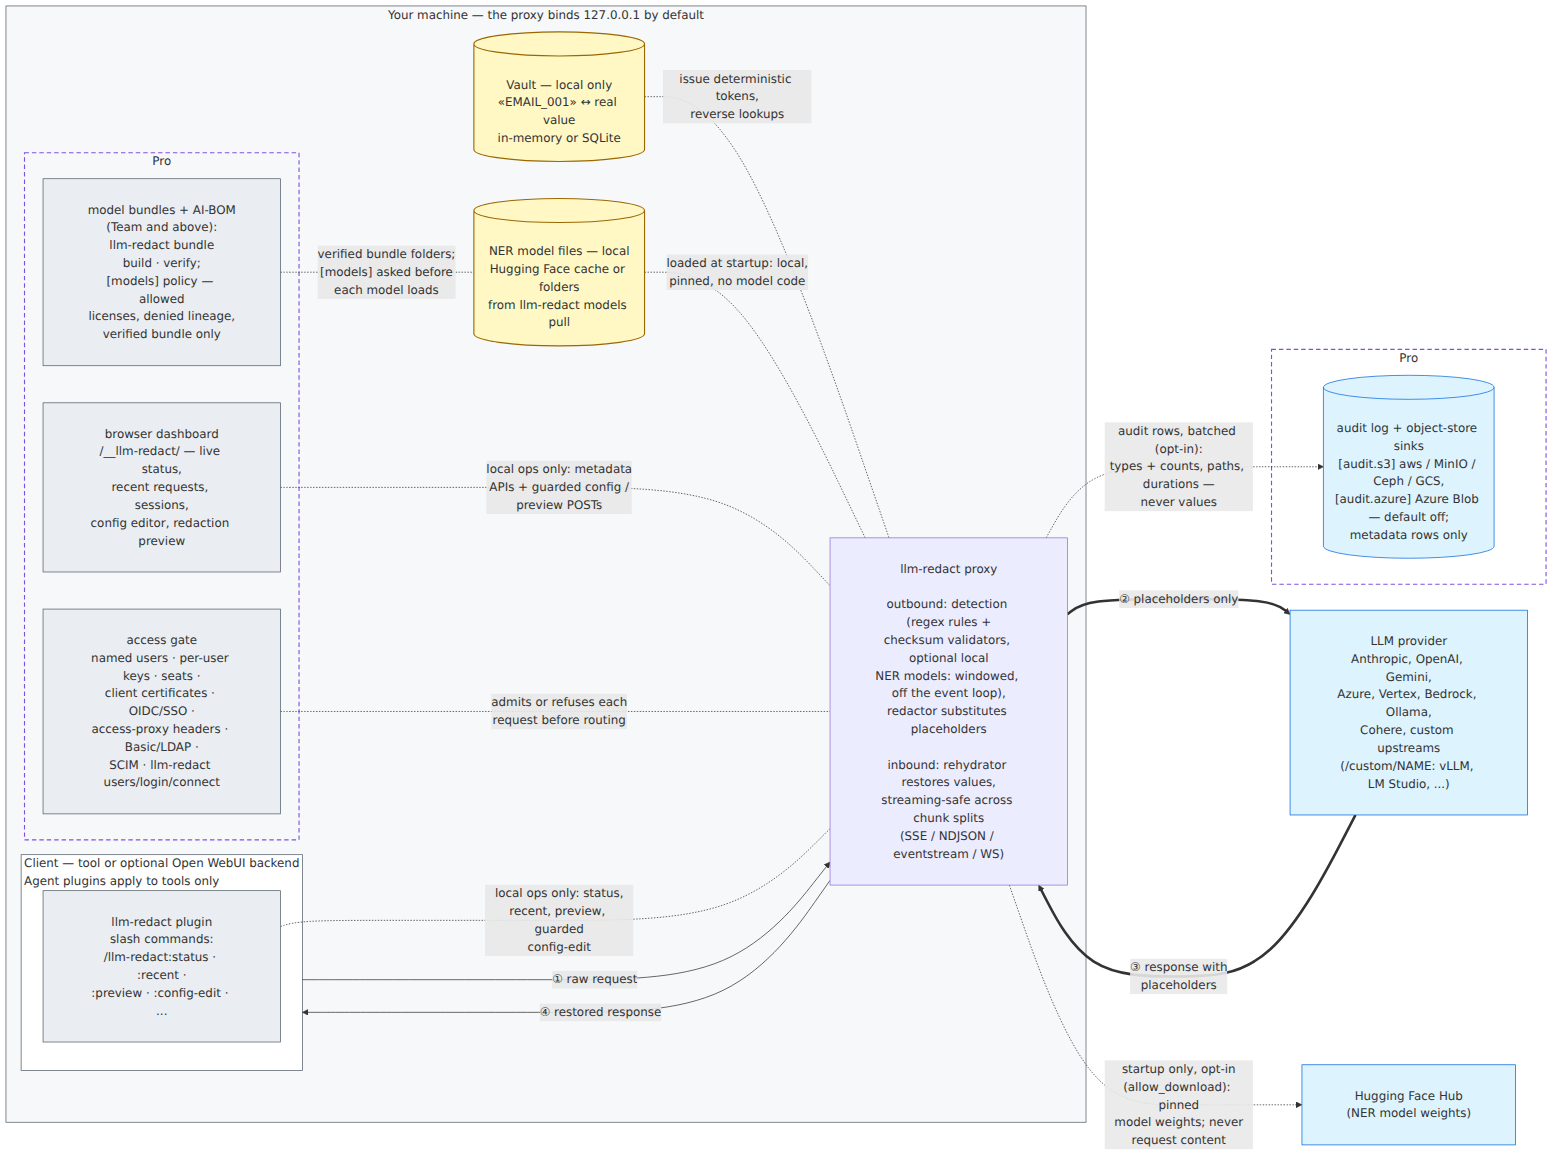
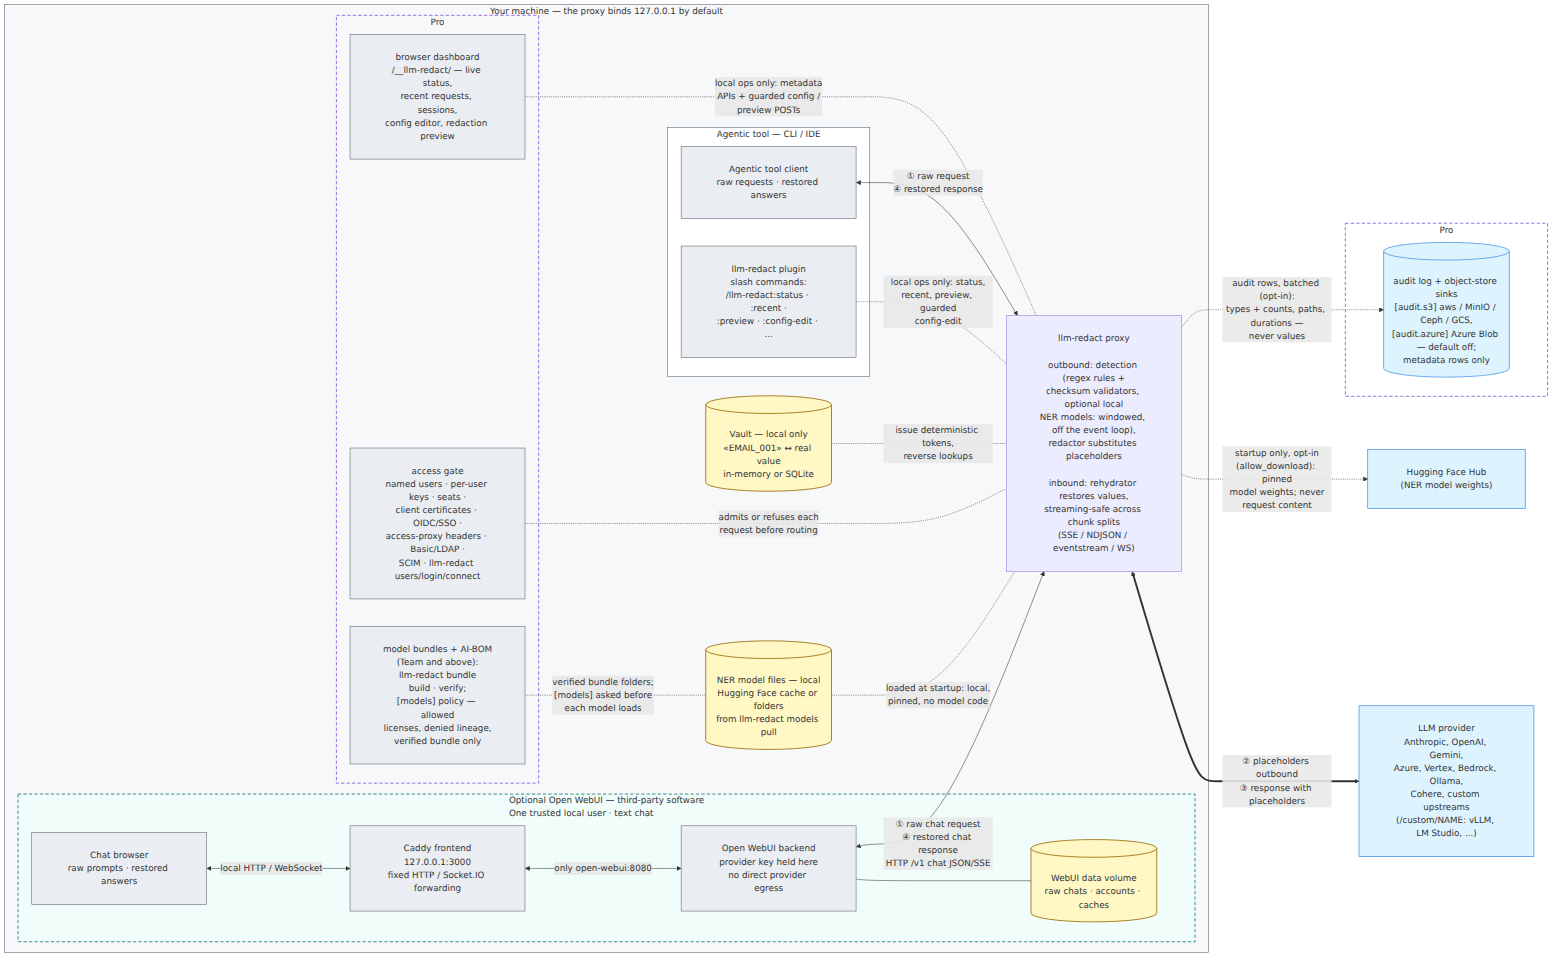
docs: show optional Open WebUI in the main architecture
Draw the browser, Caddy frontend, backend, and raw-history store as a separate optional group. Keep agent plugins and Pro features distinct, regenerate all architecture assets, and preserve both directions in the animation.

diff --git a/scripts/animate_diagrams.py b/scripts/animate_diagrams.py
@@ -10,7 +10,8 @@ version and background as the PNGs), then rewrites it:
 - flowcharts: every DIRECTED edge that does not end at a refusal node
   (Mermaid class ``refuse``) gets an overlay path with a travelling dash —
   the request/response flow — on top of the untouched original edge, so the
-  static appearance is unchanged and the arrowheads stay;
+  static appearance is unchanged and the arrowheads stay. Bidirectional
+  links alternate direction; their GIF captures the full round trip;
 - sequence diagrams: messages, their numbers, activations and notes appear
   in chronological order (top to bottom), each arrow drawing itself, then
   the finished diagram holds before the loop restarts.
@@ -110,6 +111,7 @@ def _edge_target(edge_id: str, nodes: dict[str, set[str]]) -> str | None:
 def animate_flowchart(svg: str) -> tuple[str, float]:
     nodes = _node_classes(svg)
     overlays = 0
+    has_roundtrip = False
 
     def overlay(match: re.Match[str]) -> str:
         tag = match.group(0)
@@ -119,11 +121,16 @@ def animate_flowchart(svg: str) -> tuple[str, float]:
         target = _edge_target(edge_id, nodes)
         if target is not None and "refuse" in nodes.get(target, set()):
             return tag  # refusals do not carry the flow onward
-        nonlocal overlays
+        nonlocal overlays, has_roundtrip
         overlays += 1
         thick = "edge-thickness-thick" in _classes(tag)
+        roundtrip = "marker-start=" in tag
+        has_roundtrip |= roundtrip
         d = _attr(tag, "d") or ""
-        return f'{tag}<path d="{d}" class="anim-flow{" anim-thick" if thick else ""}"/>'
+        return (
+            f'{tag}<path d="{d}" class="anim-flow{" anim-thick" if thick else ""}'
+            f'{" anim-roundtrip" if roundtrip else ""}"/>'
+        )
 
     svg = re.sub(r'<path\b[^>]*class="[^"]*flowchart-link[^"]*"[^>]*/?>', overlay, svg)
     if overlays == 0:
@@ -134,11 +141,12 @@ def animate_flowchart(svg: str) -> tuple[str, float]:
         "pointer-events:none}"
         ".anim-flow.anim-thick{stroke-width:4px;stroke-dasharray:8 20;"
         f"animation-name:llmr-flow-thick}}"
+        ".anim-flow.anim-roundtrip{animation-direction:alternate}"
         "@keyframes llmr-flow{to{stroke-dashoffset:-24}}"
         "@keyframes llmr-flow-thick{to{stroke-dashoffset:-28}}"
         "@media (prefers-reduced-motion: reduce){.anim-flow{display:none}}"
     )
-    return _inject_style(svg, css), FLOW_PERIOD_S
+    return _inject_style(svg, css), FLOW_PERIOD_S * (2 if has_roundtrip else 1)
 
 
 # --- sequence diagrams ------------------------------------------------------------

diff --git a/tests/test_animate_diagrams.py b/tests/test_animate_diagrams.py
@@ -1,0 +1,53 @@
+"""A bidirectional diagram link must show a complete request/response loop."""
+
+from __future__ import annotations
+
+import importlib.util
+import sys
+import xml.etree.ElementTree as ET
+from pathlib import Path
+
+import pytest
+
+_SCRIPT = Path(__file__).parents[1] / "scripts" / "animate_diagrams.py"
+_spec = importlib.util.spec_from_file_location("animate_diagrams", _SCRIPT)
+assert _spec is not None and _spec.loader is not None
+animator = importlib.util.module_from_spec(_spec)
+sys.modules["animate_diagrams"] = animator
+_spec.loader.exec_module(animator)
+
+
+@pytest.mark.parametrize("thick", [False, True], ids=["normal", "thick"])
+@pytest.mark.parametrize("bidirectional", [False, True], ids=["one-way", "round-trip"])
+def test_flow_animation_covers_every_direction_in_its_gif_period(
+    thick: bool, bidirectional: bool
+) -> None:
+    # Hand-authored Mermaid-shaped output, independent of the animator.
+    thickness = "thick" if thick else "normal"
+    start_marker = ' marker-start="url(#arrow)"' if bidirectional else ""
+    svg = (
+        "<svg><style></style>"
+        '<g class="node default" id="diagram-flowchart-client-0"/>'
+        '<g class="node default" id="diagram-flowchart-proxy-1"/>'
+        '<path id="diagram-L_client_proxy_0" d="M0,0 L20,0" '
+        f'class="edge-thickness-{thickness} flowchart-link"'
+        f'{start_marker} marker-end="url(#arrow)"/>'
+        "</svg>"
+    )
+
+    animated, period = animator.animate_flowchart(svg)
+
+    # Capturing only one forward period would omit the restored response.
+    assert period == animator.FLOW_PERIOD_S * (2 if bidirectional else 1)
+    paths = ET.fromstring(animated).findall("path")
+    original, overlay = paths
+    assert original.attrib["marker-end"] == "url(#arrow)"
+    assert ("marker-start" in original.attrib) is bidirectional
+    assert overlay.attrib["d"] == original.attrib["d"]
+    classes = overlay.attrib["class"].split()
+    assert "anim-flow" in classes
+    assert ("anim-thick" in classes) is thick
+    assert ("anim-roundtrip" in classes) is bidirectional
+    if bidirectional:
+        assert ".anim-flow.anim-roundtrip{animation-direction:alternate}" in animated
+    assert "prefers-reduced-motion" in animated

diff --git a/README.md b/README.md
@@ -8,12 +8,12 @@
 
 Large Language Model (LLM) information redactor that prevents private information from being sent to LLMs from agentic tools by substituting placeholders for private information on outgoing requests and then replaces the placeholders on the incoming responses seamlessly for the agentic tool users.
 
-![System data flow: agentic tool (with the llm-redact plugin slash commands inside it) or optional local Open WebUI backend, proxy, local vault and local NER model files on your machine; only placeholder tokens reach the LLM provider, and the Hugging Face Hub is reached only by an opt-in startup download of pinned model weights. Dashed boxes mark as Pro the browser dashboard, the access gate and the offline model bundles with their AI-BOM and model policy (Team and above) on your machine, and the audit log with its object-store sinks, plus the flows into each](https://raw.githubusercontent.com/asanderson/llm-redact/main/docs/diagrams/architecture.png)
+![System data flow: an agentic tool with the llm-redact plugin and a separate optional Open WebUI group containing the chat browser, loopback Caddy frontend, WebUI backend and sensitive raw-history volume. Both clients send raw requests to the local proxy and receive restored responses; only the proxy connects to the LLM provider. The local vault and NER models stay on your machine, and the Hugging Face Hub is reached only by an opt-in startup model download. Purple dashed boxes mark Pro features; the teal dashed box marks optional third-party software](https://raw.githubusercontent.com/asanderson/llm-redact/main/docs/diagrams/architecture.png)
 
 *Animated version: [SVG](https://github.com/asanderson/llm-redact/blob/main/docs/diagrams/architecture.svg) · [GIF](https://github.com/asanderson/llm-redact/blob/main/docs/diagrams/architecture.gif) — the request and response flow moves.*
 
 Only placeholder tokens cross the trust boundary; the vault mapping never
-leaves your machine. The dashed boxes mark what is **Pro** — supplied by
+leaves your machine. The purple dashed boxes mark what is **Pro** — supplied by
 the proprietary `llm-redact-pro` package: the browser dashboard at
 `/__llm-redact/` (live status view, config editor, redaction preview —
 it stays on your machine and reads the same metadata-only APIs the core
@@ -22,7 +22,13 @@ NER model bundles with their AI bill of materials and the `[models]`
 model-load policy (Team and above), and the audit subsystem (the audit
 log, its object-store sinks, and the audit-row flow into them). Vault at-rest encryption, the server
 RDBMS vault backends, and upstream routing are Pro too but not drawn;
-the optional Open WebUI frontend is separate third-party software, and
+the teal dashed **Optional Open WebUI** group is separate third-party
+software: browser → loopback Caddy frontend → WebUI backend → proxy,
+with raw chat history kept in its local WebUI data volume. Its
+[deployment topology](https://github.com/asanderson/llm-redact/blob/main/docs/openwebui.md#deployment-topology)
+shows the container networks and ports. The agent plugins apply to the
+agentic tool; WebUI uses the proxy's HTTP API. Apart from those third-party
+components,
 everything else pictured is part of this repository's **FOSS core**
 (matrix in [docs/editions.md](https://github.com/asanderson/llm-redact/blob/main/docs/editions.md)). The full
 documentation set — quickstart, deployment, security, engineering

diff --git a/CHANGELOG.md b/CHANGELOG.md
@@ -278,6 +278,13 @@ loads `OpenMed/OpenMed-PII-SuperClinical-Small-44M-v1` instead of `dslim/bert-ba
   model server fails.
 
 ### Fixed
+- The main architecture diagram now draws optional Open WebUI as a separate
+  third-party group: browser, loopback Caddy frontend, WebUI backend and sensitive
+  local history, with explicit request/response links to the proxy. It no longer
+  represents WebUI only as an alternative name on the agent-tool box. The README
+  caption and committed PNG, animated SVG and GIF show the same components.
+  Bidirectional links animate both directions, and the GIF captures the complete
+  request/response loop; one-way animation keeps its existing timing.
 - A SIGHUP during the proxy's shutdown — a terminal closing, a reload racing a stop — could end
   the process in the middle of the audit sinks' final flush (up to 45 seconds), before the audit
   database and the vault closed: the shutdown removed the SIGHUP handler first, which restores
